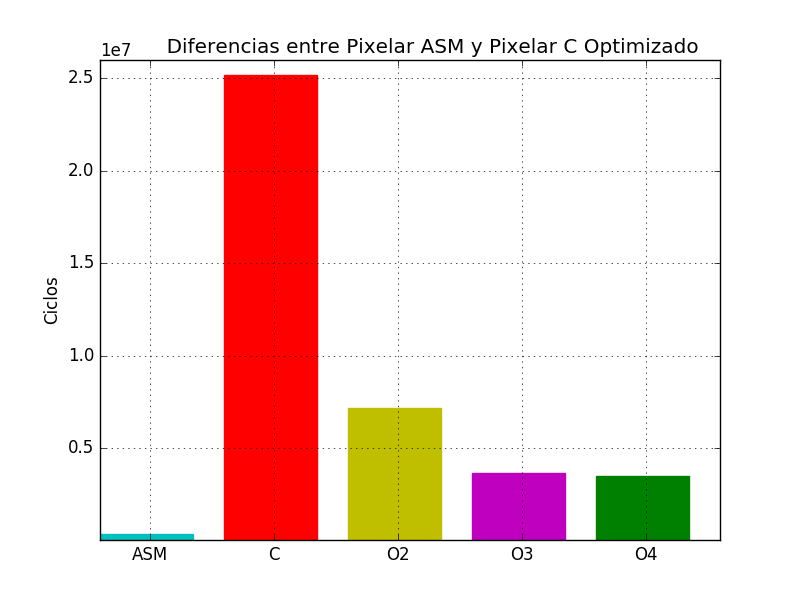
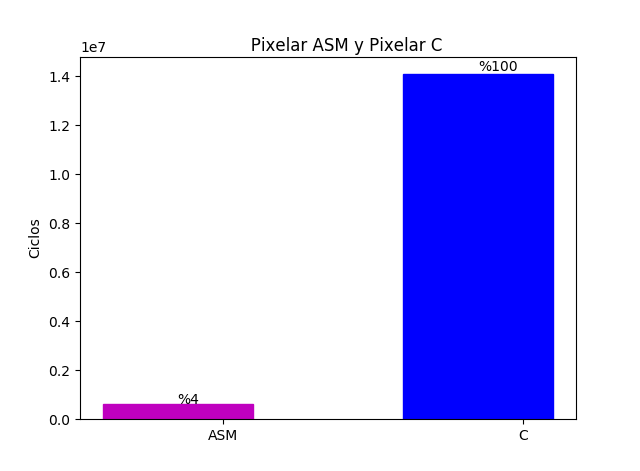
ssh

diff --git a/Experimentos/PIXELAR/ASMvsC.py b/Experimentos/PIXELAR/ASMvsC.py
@@ -1,34 +1,107 @@
 import matplotlib.pyplot as plt
 import numpy as np
- 
-y = []
-y.append(348796)
-y.append(25172722)
-y.append(7192596)
-y.append(3666364)
-y.append(3499926)
 
-ind = np.arange(5) 
-width = .75     
+import csv
+
+data_csv = "pixelarASM.csv"
+
+tsASM = [ [] for i in range(128)]
+
+with open(data_csv) as csvfile:
+  reader = csv.DictReader(csvfile)
+  for row in reader:
+    pix = float(row['pixelar'])
+    
+    tsASM[13].append(pix)
+
+data2_csv = "pixelarC.csv"
+
+tsC = [ [] for i in range(128)]
+
+with open(data2_csv) as csvfile:
+  reader = csv.DictReader(csvfile)
+  for row in reader:
+    pixC = float(row['pixelar'])
+    
+    tsC[9].append(pixC)
+
+data3_csv = "pixelarO2.csv"
+
+tsO2 = [ [] for i in range(128)]
+
+with open(data3_csv) as csvfile:
+  reader = csv.DictReader(csvfile)
+  for row in reader:
+    pixO2 = float(row['pixelar'])
+    
+    tsO2[6].append(pixO2)
+
+data4_csv = "pixelarO3.csv"
+
+tsO3 = [ [] for i in range(128)]
+
+with open(data4_csv) as csvfile:
+  reader = csv.DictReader(csvfile)
+  for row in reader:
+    pixO3 = float(row['pixelar'])
+    
+    tsO3[14].append(pixO3)
+
+
+asm = 10000000000000000
+for i in range(128):
+	for t in tsASM[i]:
+		asm = min(asm, t)
+
+c = 10000000000000000
+for i in range(128):
+	for t in tsC[i]:
+		c = min(c, t)
+
+o2 = 10000000000000000
+for i in range(128):
+	for t in tsO2[i]:
+		o2 = min(o2, t)
+
+
+o3 = 10000000000000000
+for i in range(128):
+	for t in tsO3[i]:
+		o3 = min(o3, t)
+ 
+
+y = []
+y.append(asm)
+y.append(c)
+#y.append(o2)
+#y.append(o3)
+
+ind = np.arange(2) 
+width = .5     
 
 fig, ax = plt.subplots()
 rects1 = ax.bar(ind, y, width)
 
 ax.set_ylabel('Ciclos')
-ax.set_title('       Diferencias entre Pixelar ASM y Pixelar C Optimizado')
+ax.set_title('       Pixelar ASM y Pixelar C')
 #ax.set_subtitle(' formas e igual cantidad de pixeles')
 ax.set_xticks(ind + 0.4)
-ax.set_xticklabels(('ASM','C','O2','O3','O4'))
+ax.set_xticklabels(('ASM', 'C'))
 plt.ticklabel_format(style='sci', axis='y', scilimits=(0,0))
-rects1[0].set_color('c')
-rects1[1].set_color('r')
-rects1[2].set_color('y')
-rects1[3].set_color('m')
-rects1[4].set_color('g')
 
-plt.grid(True)
+plt.text(1.25, 14199999, r'%100')
 
-plt.ylim(30000,26000000)
+plt.text(0.25, 620000, r'%4')
+
+
+rects1[0].set_color('m')
+rects1[1].set_color('b')
+
+
+
+plt.grid(False)
+
+#plt.ylim(30000,26000000)
 
 
 plt.show()

diff --git a/Experimentos/PIXELAR/div.py b/Experimentos/PIXELAR/div.py
@@ -2,8 +2,8 @@ import matplotlib.pyplot as plt
 import numpy as np
  
 y = []
-y.append(1380990)
-y.append(71138704)
+y.append(352064)
+y.append(880225)
 
 ind = np.arange(2) 
 width = .75     
@@ -12,15 +12,17 @@ fig, ax = plt.subplots()
 rects1 = ax.bar(ind, y, width)
 
 ax.set_ylabel('Ciclos')
-ax.set_title('       Diferencias entre Combinar ASM y Combinar C')
+ax.set_title('       Pixelar ASM')
 #ax.set_subtitle(' formas e igual cantidad de pixeles')
 ax.set_xticks(ind + 0.4)
-ax.set_xticklabels(('ASM','O3'))
+ax.set_xticklabels(('DIV SHIFT','DIV FLOAT'))
+plt.text(0.25, 359999, r'%100')
+
+plt.text(1.25, 889999, r'%250')
 plt.ticklabel_format(style='sci', axis='y', scilimits=(0,0))
-plt.text(0.25, 1380999, r'%2')
-plt.text(1.25, 71138799, r'%100')
-rects1[0].set_color('c')
-rects1[1].set_color('r')
+rects1[0].set_color('g')
+rects1[1].set_color('m')
+
 
 plt.grid(False)
 

diff --git a/Experimentos/COMBINAR/Mem.py b/Experimentos/COMBINAR/Mem.py
@@ -125,12 +125,12 @@ import numpy as np
 
 fig, (ax1, ax2) = plt.subplots(1, 2)
 
-labels = 'Escribir', 'Leer', 'Procesar'
-sizes = [escribir, leer, procesar]
+labels = 'Escribir', 'Procesar', 'Leer'
+sizes = [escribir, procesar, leer]
 colors = ['gold', 'lightcoral', 'lightskyblue']
 explode = (0.1, 0)  # explode 1st slice
 
-sizes1 = [leerC,  procesarC, escribirC]
+sizes1 = [escribirC, procesarC, leerC]
 colors1 = ['gold', 'lightcoral', 'lightskyblue']
  
 # Plot

diff --git a/Experimentos/PIXELAR/test.py b/Experimentos/PIXELAR/test.py
@@ -1,0 +1,1 @@
+import plotly
